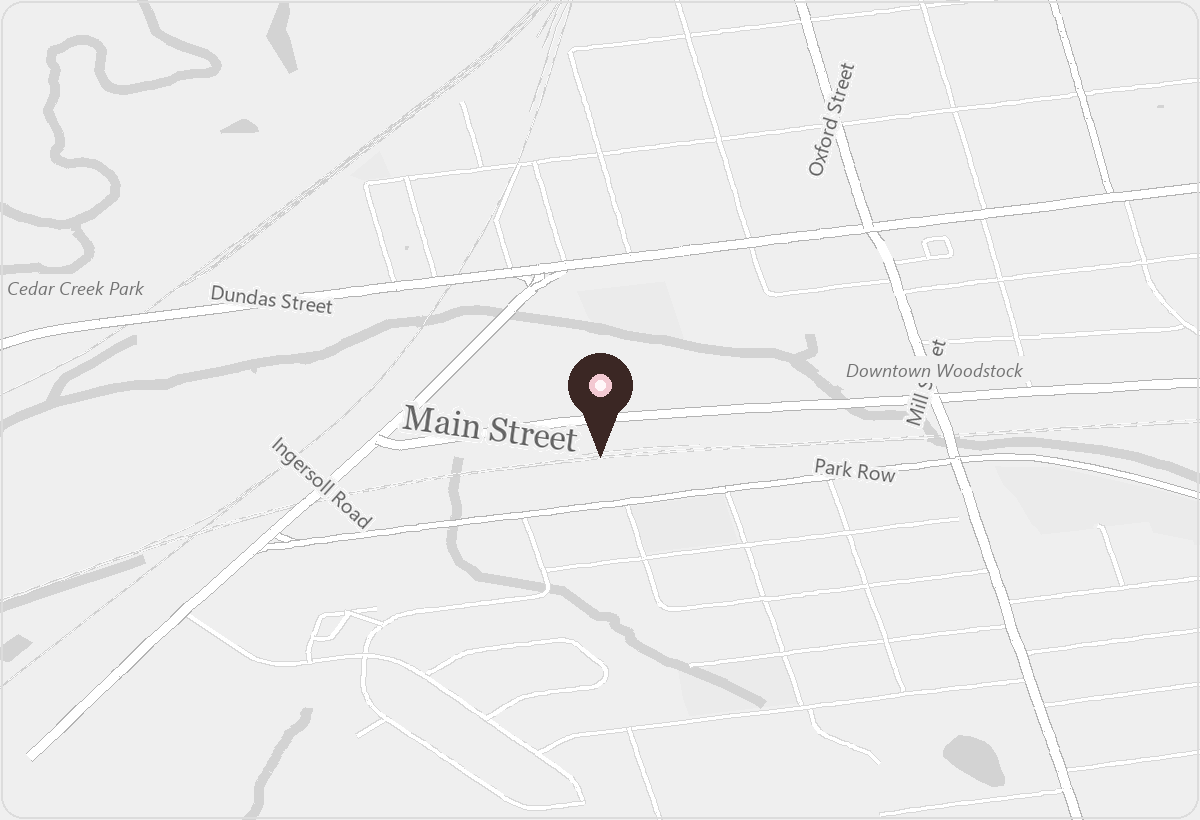
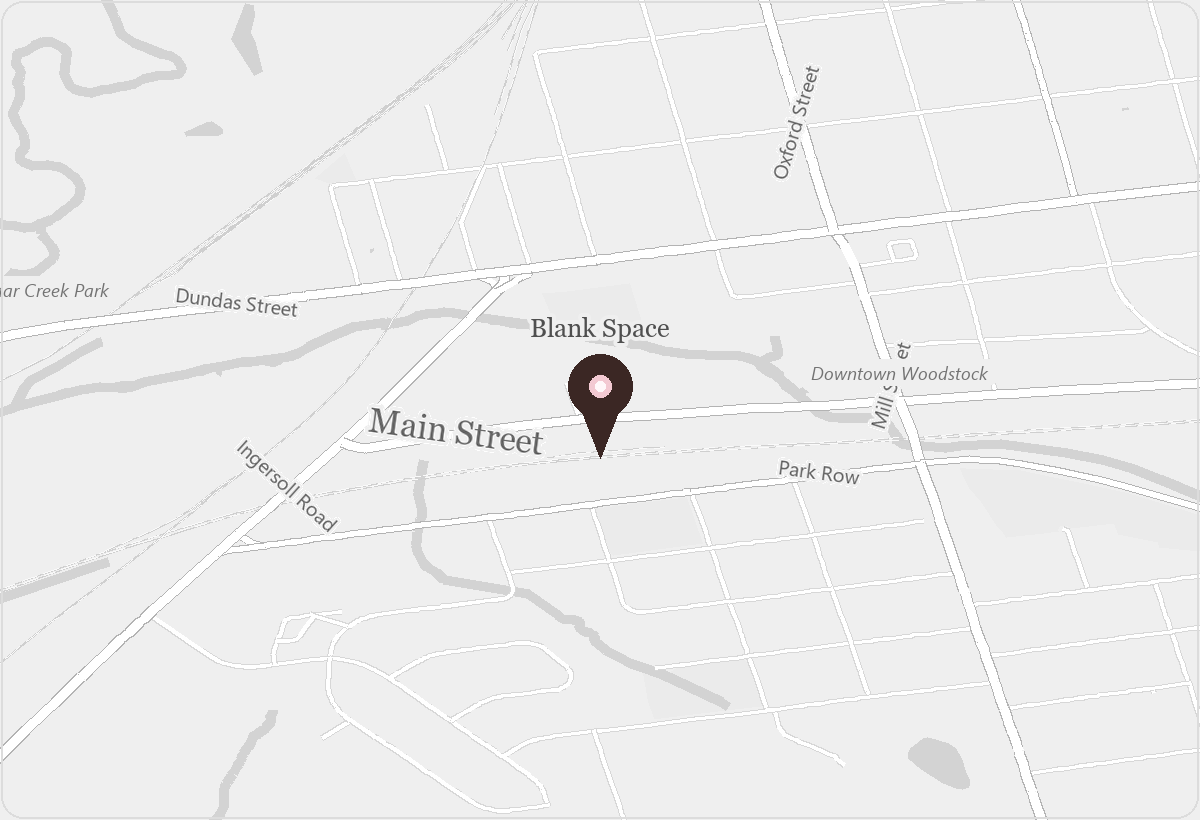
Refine map marker placement and street labels

diff --git a/site-redesign/contact.html b/site-redesign/contact.html
@@ -57,7 +57,7 @@
             <h2 id="map-heading">On Main Street, close to the heart of Woodstock.</h2>
             <p class="lead">Blank Space sits near downtown Woodstock, with Cedar Creek parkland to the west and easy access from Dundas Street, Ingersoll Avenue, and Highway 59.</p>
             <div class="actions">
-              <a class="button secondary" href="https://www.openstreetmap.org/?mlat=43.125887&amp;mlon=-80.769466#map=17/43.125887/-80.769466" target="_blank" rel="noopener">Open Map</a>
+              <a class="button secondary" href="https://www.openstreetmap.org/?mlat=43.125929&amp;mlon=-80.7689616#map=17/43.125929/-80.7689616" target="_blank" rel="noopener">Open Map</a>
             </div>
           </div>
           <figure class="map-frame reveal">

diff --git a/scripts/generate_map.py b/scripts/generate_map.py
@@ -5,8 +5,9 @@ import requests
 from PIL import Image, ImageDraw, ImageFont
 
 
-VENUE_LAT = 43.125887
-VENUE_LON = -80.769466
+# Use the mapped building centroid rather than the roadside address node.
+VENUE_LAT = 43.125929
+VENUE_LON = -80.7689616
 
 WIDTH = 1200
 HEIGHT = 820
@@ -63,9 +64,21 @@ def fetch_map_elements():
     return response.json()["elements"]
 
 
+def mercator_y(lat):
+    lat_rad = math.radians(lat)
+    return math.log(math.tan(math.pi / 4 + lat_rad / 2))
+
+
 def project(lat, lon):
-    x = PAD_PX + (lon - (VENUE_LON - PAD_LON)) / (PAD_LON * 2) * (WIDTH - PAD_PX * 2)
-    y = PAD_PX + ((VENUE_LAT + PAD_LAT) - lat) / (PAD_LAT * 2) * (HEIGHT - PAD_PX * 2)
+    west = VENUE_LON - PAD_LON
+    east = VENUE_LON + PAD_LON
+    south = VENUE_LAT - PAD_LAT
+    north = VENUE_LAT + PAD_LAT
+    x = PAD_PX + (lon - west) / (east - west) * (WIDTH - PAD_PX * 2)
+    merc_north = mercator_y(north)
+    merc_south = mercator_y(south)
+    merc_point = mercator_y(lat)
+    y = PAD_PX + (merc_north - merc_point) / (merc_north - merc_south) * (HEIGHT - PAD_PX * 2)
     return x, y
 
 
@@ -244,6 +257,7 @@ def draw_map():
     georgia = "C:/Windows/Fonts/georgia.ttf"
     segoe = "C:/Windows/Fonts/segoeui.ttf"
     italic = "C:/Windows/Fonts/segoeuii.ttf"
+    venue_font = ImageFont.truetype(georgia, 26)
 
     for road_name, latlon in TARGET_LABEL_POINTS.items():
         position, angle = nearest_label_position(roads_by_name, road_name, latlon)
@@ -278,6 +292,15 @@ def draw_map():
         draw.text((x, y), text, font=park_font, fill="#737373", anchor="mm")
 
     marker_x, marker_y = project(VENUE_LAT, VENUE_LON)
+    draw.text(
+        (marker_x, marker_y - 82),
+        "Blank Space",
+        font=venue_font,
+        fill="#4f4f4f",
+        stroke_width=4,
+        stroke_fill="#efefef",
+        anchor="mm",
+    )
     radius = 32
     draw.ellipse((marker_x - radius, marker_y - radius - 24, marker_x + radius, marker_y + radius - 24), fill=pin)
     draw.polygon([(marker_x - 22, marker_y - 8), (marker_x + 22, marker_y - 8), (marker_x, marker_y + 48)], fill=pin)
